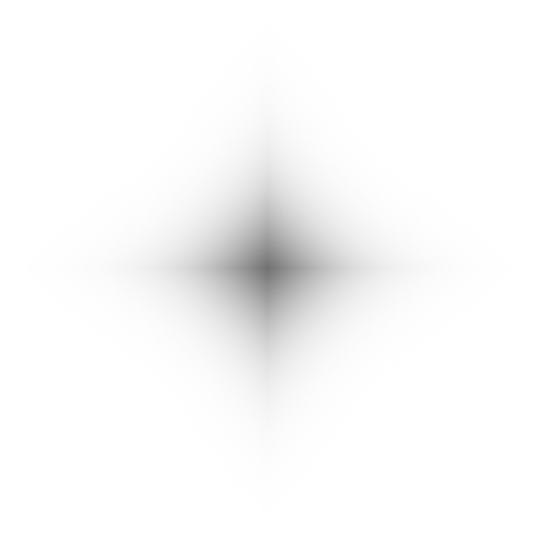
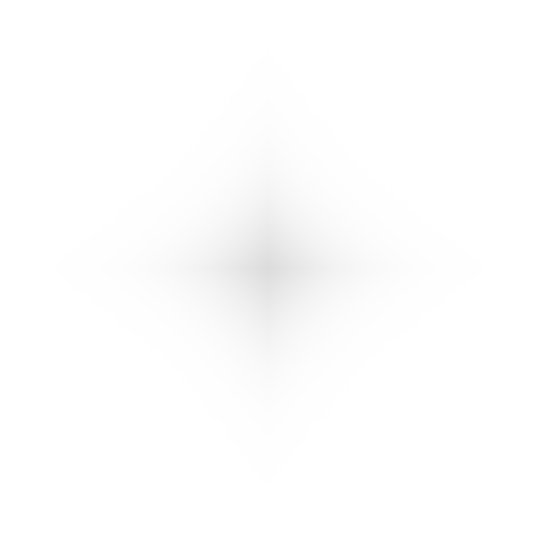
Converted vignettes to background images. Pillar double-border looks good on all browsers, no scrollbars.

Changed region(s): [[0.3284, 0.3284, 0.6866, 0.6866]]

diff --git a/src/main/resources/org/techhouse/shirts/display/web/styles/layout.less b/src/main/resources/org/techhouse/shirts/display/web/styles/layout.less
@@ -20,7 +20,8 @@ body {
 }
 
 .tableRow {
-	display: table-row;	
+	display: table-row;
+	overflow: hidden;
 }
 	
 .tableCell {
@@ -52,22 +53,16 @@ a, a:visited {
 }
 
 .pillar {
-	border: @size_pillar_outerBorderWidth solid @colors_pillar_border;
+	outline: @size_pillar_outerBorderWidth solid @colors_pillar_border;
+	outline-offset: 0px;
 	color: @colors_text_light;
 	background-color: @colors_pillar_background;
+	background-image: url("../images/layout/vignette.png"), url("../images/layout/vignette.png");
+	background-repeat: no-repeat;
 	width: @size_pillar_width + @size_pillar_innerBorderWidth;
 	position: relative;
-	
-	.border {
-		border: @size_pillar_innerBorderWidth solid white;
-		height: 100%;
-		position: relative; //absolute makes firefox clamp it to window height, relative makes opera clamp it to window height
-		
-		width: @size_pillar_width;
-		//background-color: red;
-	}
-	
-	
+	height: 100%; //for firefox vignettes
+	border: 1px solid white;
 	
 	.pillarContent {
 		position: absolute;
@@ -75,58 +70,16 @@ a, a:visited {
 		padding: @size_pillar_innerContentPadding;
 	}
 	
-	.vignette {
-		position: absolute;
-		width: 268px;
-		height: 268px;
-		.background-image("layout/vignette.png");
-		background-repeat: no-repeat;
-		opacity: @opacity_vignette;
-	
-		&.top {
-			top: 0;
-		}
-		&.bottom {
-			bottom: 0;
-		}
-	}
-	
 	&.right {
 		right: 0;
-		
+		background-position: (-1 * @size_vignette_radius + @size_pillar_width) (-1 * @size_vignette_radius);
 		#border > .only(left);
-		.border {
-			#border > .only(left);
-		}
-		
-		.vignette {
-			right: 0;
-			&.top {
-				background-position: 0% 100%;
-			}
-			&.bottom {
-				background-position: 0% 0%;
-			}
-		}
 	}
 	
 	&.left {
 		left: 0;
-		
+		background-position: (-1 * @size_vignette_radius) (-1 * @size_vignette_radius);
 		#border > .only(right);
-		.border {
-			#border > .only(right);	
-		}
-		
-		.vignette {
-			left: 0;
-			&.top {
-				background-position: 100% 100%;
-			}
-			&.bottom {
-				background-position: 100% 0%;
-			}
-		}
 	}
 }
 
@@ -164,7 +117,6 @@ header{
 	h3 {
 		color: @colors_text_medium;
 		text-transform: uppercase;
-		//margin-left: -1 * @size_nav_linkLeftGap;
 		font-family: "Univers Condensed";
 		font-weight: bold;
 		#font>.size(@font_size_navigation_heading, @font_size_navigation_text);

diff --git a/src/main/webapp/styles/styles.css b/src/main/webapp/styles/styles.css
@@ -65,6 +65,7 @@ body {
 }
 .tableRow {
   display: table-row;
+  overflow: hidden;
 }
 .tableCell {
   display: table-cell;
@@ -90,76 +91,35 @@ a, a:visited {
   float: none;
 }
 .pillar {
-  border: 2px solid #778688;
+  outline: 2px solid #778688;
+  outline-offset: 0px;
   color: #ffffff;
   background-color: #98a4a6;
+  background-image: url("../images/layout/vignette.png"), url("../images/layout/vignette.png");
+  background-repeat: no-repeat;
   width: 138px;
   position: relative;
-}
-.pillar .border {
-  border: 1px solid white;
   height: 100%;
-  position: relative;
-  width: 137px;
+  border: 1px solid white;
 }
 .pillar .pillarContent {
   position: absolute;
   width: 115px;
   padding: 10px;
 }
-.pillar .vignette {
-  position: absolute;
-  width: 268px;
-  height: 268px;
-  background-image: url(../images/layout/vignette.png);
-  background-repeat: no-repeat;
-  opacity: 0.67;
-}
-.pillar .vignette.top {
-  top: 0;
-}
-.pillar .vignette.bottom {
-  bottom: 0;
-}
 .pillar.right {
   right: 0;
+  background-position: -131px -268px;
   border-top-style: none;
   border-right-style: none;
   border-bottom-style: none;
-}
-.pillar.right .border {
-  border-top-style: none;
-  border-right-style: none;
-  border-bottom-style: none;
-}
-.pillar.right .vignette {
-  right: 0;
-}
-.pillar.right .vignette.top {
-  background-position: 0% 100%;
-}
-.pillar.right .vignette.bottom {
-  background-position: 0% 0%;
 }
 .pillar.left {
   left: 0;
+  background-position: -268px -268px;
   border-top-style: none;
   border-bottom-style: none;
   border-left-style: none;
-}
-.pillar.left .border {
-  border-top-style: none;
-  border-bottom-style: none;
-  border-left-style: none;
-}
-.pillar.left .vignette {
-  left: 0;
-}
-.pillar.left .vignette.top {
-  background-position: 100% 100%;
-}
-.pillar.left .vignette.bottom {
-  background-position: 100% 0%;
 }
 @media all and (-webkit-min-device-pixel-ratio:10000),not all and (-webkit-min-device-pixel-ratio:0) {
   .pillar, .pillar .border {

diff --git a/src/main/resources/org/techhouse/shirts/display/web/pages/BasePage.html b/src/main/resources/org/techhouse/shirts/display/web/pages/BasePage.html
@@ -15,16 +15,13 @@
 			<div class="table">
 				<div class="tableRow">
 					<div class="tableCell pillar left">
-						<div class="border">
-							<div class="vignette top"></div>
-							<div class="vignette bottom"></div>
+							
 							<div class="pillarContent">
 								<header>
 									<a wicket:id="logoLink">
 										<h1>Technology House Apparel</h1>
 									</a>
 								</header>
-							</div>
 						</div>
 					</div>
 					
@@ -38,9 +35,6 @@
 					</div>
 					
 					<div class="tableCell pillar right">
-						<div class="border">
-							<div class="vignette top"></div>
-							<div class="vignette bottom"></div>
 							<div class="pillarContent">
 								<div class="navigation">
 									<div>
@@ -68,7 +62,6 @@
 										<a><wicket:message key="nav.help.support" /></a>
 									</div>
 								</div>
-							</div>
 						</div>
 					</div>
 				</div>

diff --git a/src/main/resources/org/techhouse/shirts/display/web/styles/constants.less b/src/main/resources/org/techhouse/shirts/display/web/styles/constants.less
@@ -30,11 +30,10 @@
 @size_designform_textfieldBorderWidth: 1px;
 @size_designform_fieldGap: 0.8em;
 @size_designform_fieldHeight: 1.5em;
+@size_vignette_radius: 268px;
 
 @font_size_navigation_heading: 12px;
 @font_size_navigation_text: 13px;
-
-@opacity_vignette: 0.67;
 
 @resource_imgDir: e("../images/");
 @resource_fontDir: e("../fonts/");
